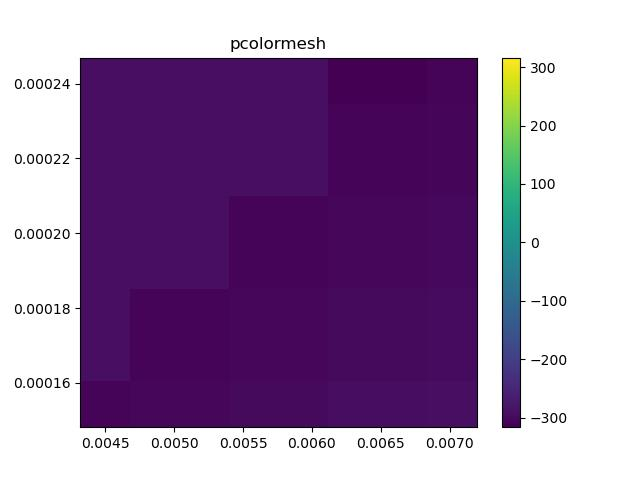
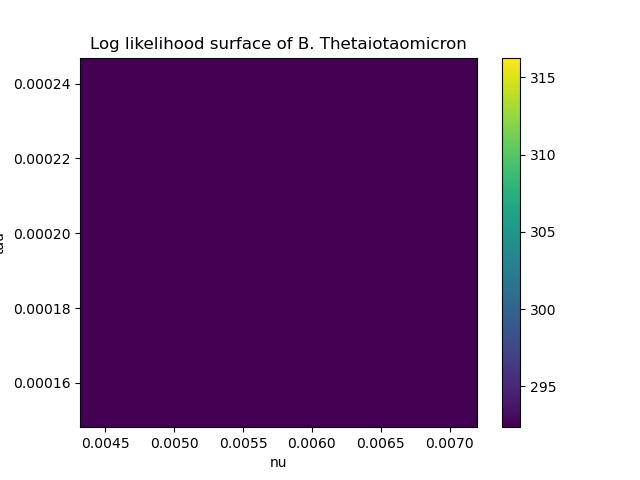
plot likelihood testing.

diff --git a/Scripts/plot_likelihood.py b/Scripts/plot_likelihood.py
@@ -483,7 +483,7 @@ class PlotLikelihood():
                 # x and y are bounds, so z should be the value *inside* those bounds.
                 # Therefore, remove the last value from the z array.
                 # z = z[:-1, :-1]
-                z_min, z_max = -numpy.abs(z).max(), numpy.abs(z).max()
+                z_min, z_max = numpy.abs(z).min(), numpy.abs(z).max()
 
                 fig, ax = plt.subplots()
 
@@ -492,7 +492,9 @@ class PlotLikelihood():
                 # set the limits of the plot to the limits of the data
                 ax.axis([x.min(), x.max(), y.min(), y.max()])
                 fig.colorbar(c, ax=ax)
-
+                ax.set_title('Log likelihood surface of B. Thetaiotaomicron')
+                ax.set_ylabel('tau')
+                ax.set_xlabel('nu')
                 plt.savefig(file)
         logger.info('Finished demographic inference.')
         logger.info('Pipeline executed succesfully.')
@@ -500,3 +502,4 @@ class PlotLikelihood():
 
 if __name__ == '__main__':
     PlotLikelihood().main()
+
